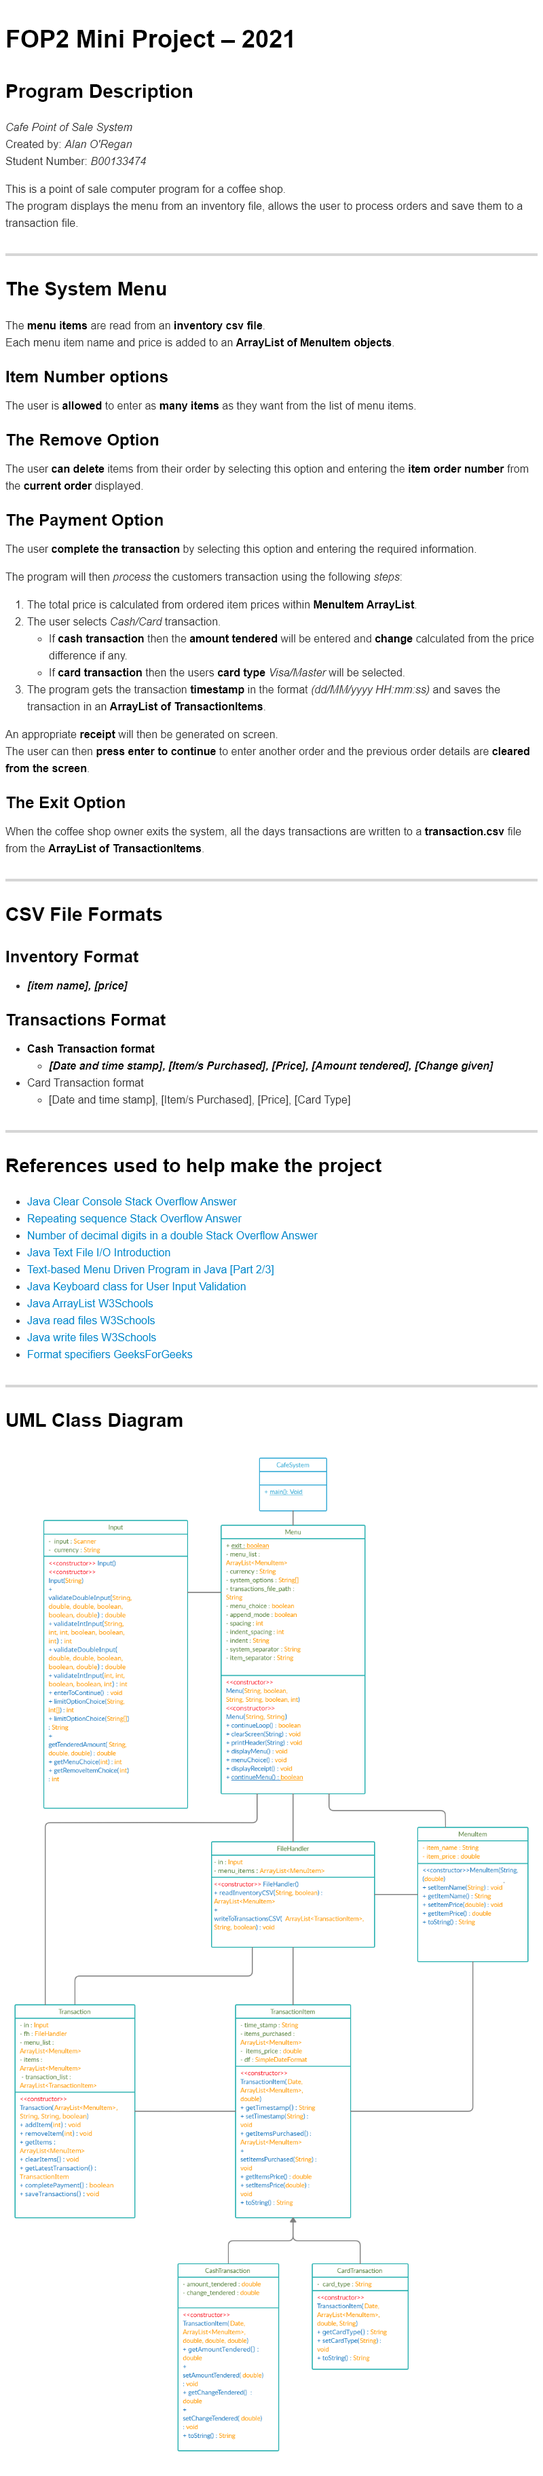
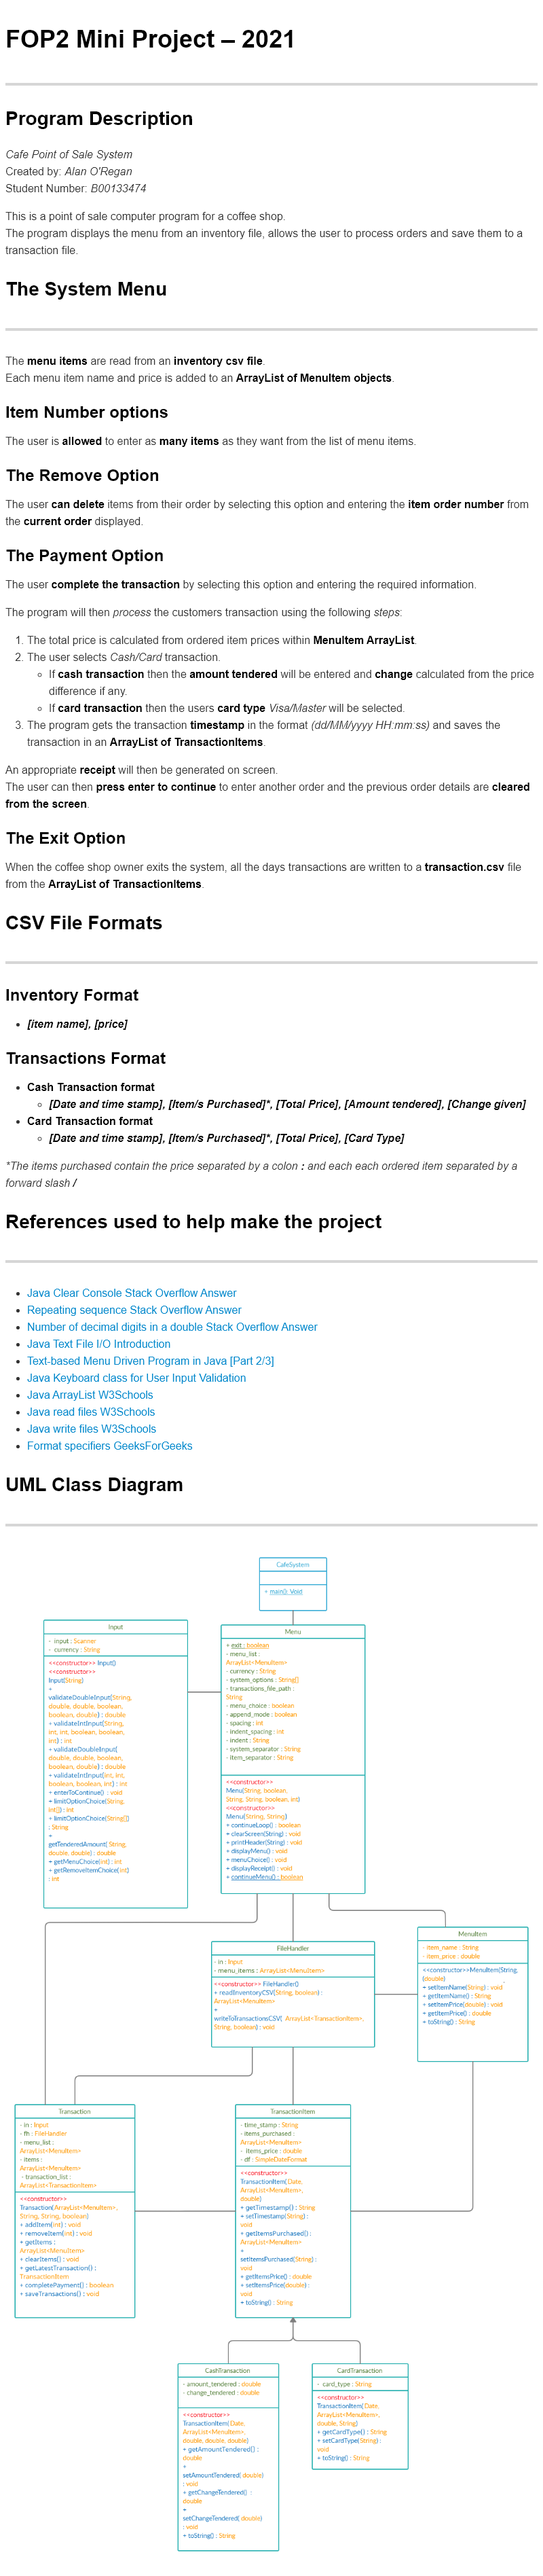
updated documentation

diff --git a/readme.md b/readme.md
@@ -1,5 +1,7 @@
 # FOP2 Mini Project – 2021
 
+***
+
 ## Program Description
 
 *Cafe Point of Sale System*
@@ -9,9 +11,9 @@ Student Number: *B00133474*
 This is a point of sale computer program for a coffee shop.
 The program displays the menu from an inventory file, allows the user to process orders and save them to a transaction file.
 
-***
-
 ## The System Menu
+
+***
 
 The **menu items** are read from an **inventory csv file**.
 Each menu item name and price is added to an **ArrayList of MenuItem objects**.
@@ -44,9 +46,9 @@ The user can then **press enter to continue** to enter another order and the pre
 
 When the coffee shop owner exits the system, all the days transactions are written to a **transaction.csv** file from the **ArrayList of TransactionItems**.
 
-***
-
 ## CSV File Formats
+
+***
 
 ### Inventory Format
 
@@ -55,13 +57,15 @@ When the coffee shop owner exits the system, all the days transactions are writt
 ### Transactions Format
 
 - **Cash Transaction format**
-  - ***[Date and time stamp], [Item/s Purchased], [Price], [Amount tendered], [Change given]***
-- Card Transaction format
-  - [Date and time stamp], [Item/s Purchased], [Price], [Card Type]
+  - ***[Date and time stamp], [Item/s Purchased]\*, [Total Price], [Amount tendered], [Change given]***
+- **Card Transaction format**
+  - ***[Date and time stamp], [Item/s Purchased]\*, [Total Price], [Card Type]***
 
-***
+*\*The items purchased contain the price separated by a colon **:** and each each ordered item separated by a forward slash **/***
 
 ## References used to help make the project
+
+***
 
 - [Java Clear Console Stack Overflow Answer](https://stackoverflow.com/a/38365871)
 - [Repeating sequence Stack Overflow Answer](https://stackoverflow.com/a/49656610)
@@ -74,8 +78,8 @@ When the coffee shop owner exits the system, all the days transactions are writt
 - [Java write files W3Schools](https://www.w3schools.com/java/java_files_create.asp)
 - [Format specifiers GeeksForGeeks](https://www.geeksforgeeks.org/format-specifiers-in-java/)
 
-***
-
 ## UML Class Diagram
+
+***
 
 ![Mini Project UML Class Diagram](Mini%20Project%20UML%20Class%20Diagram.png)
